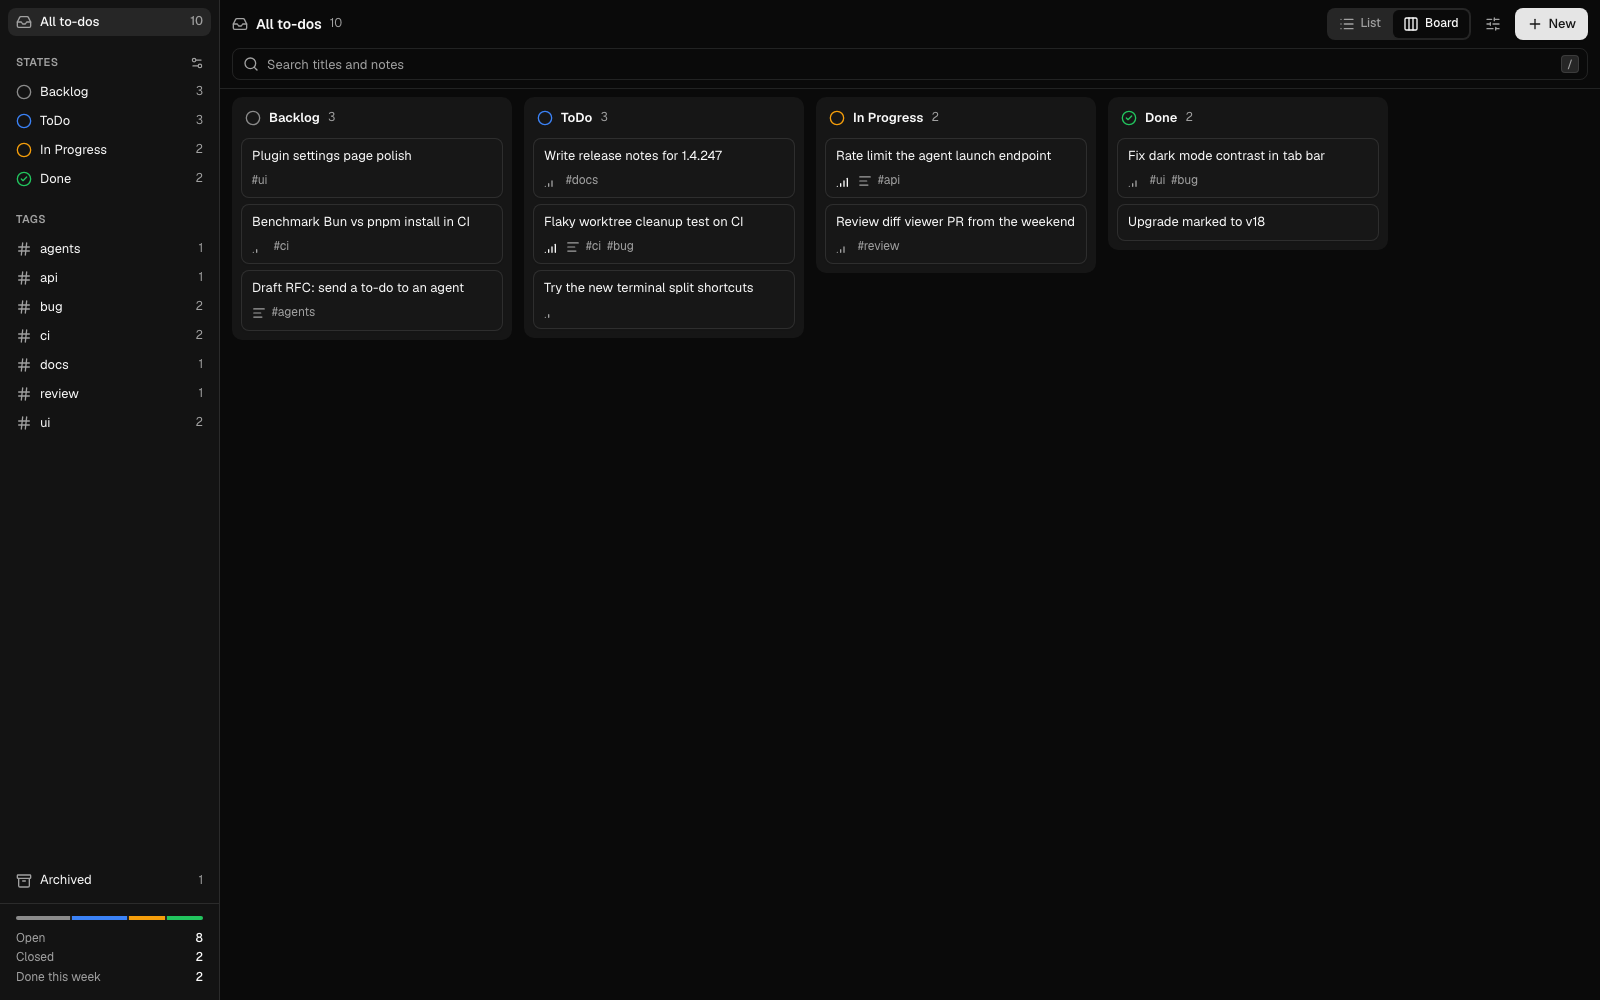
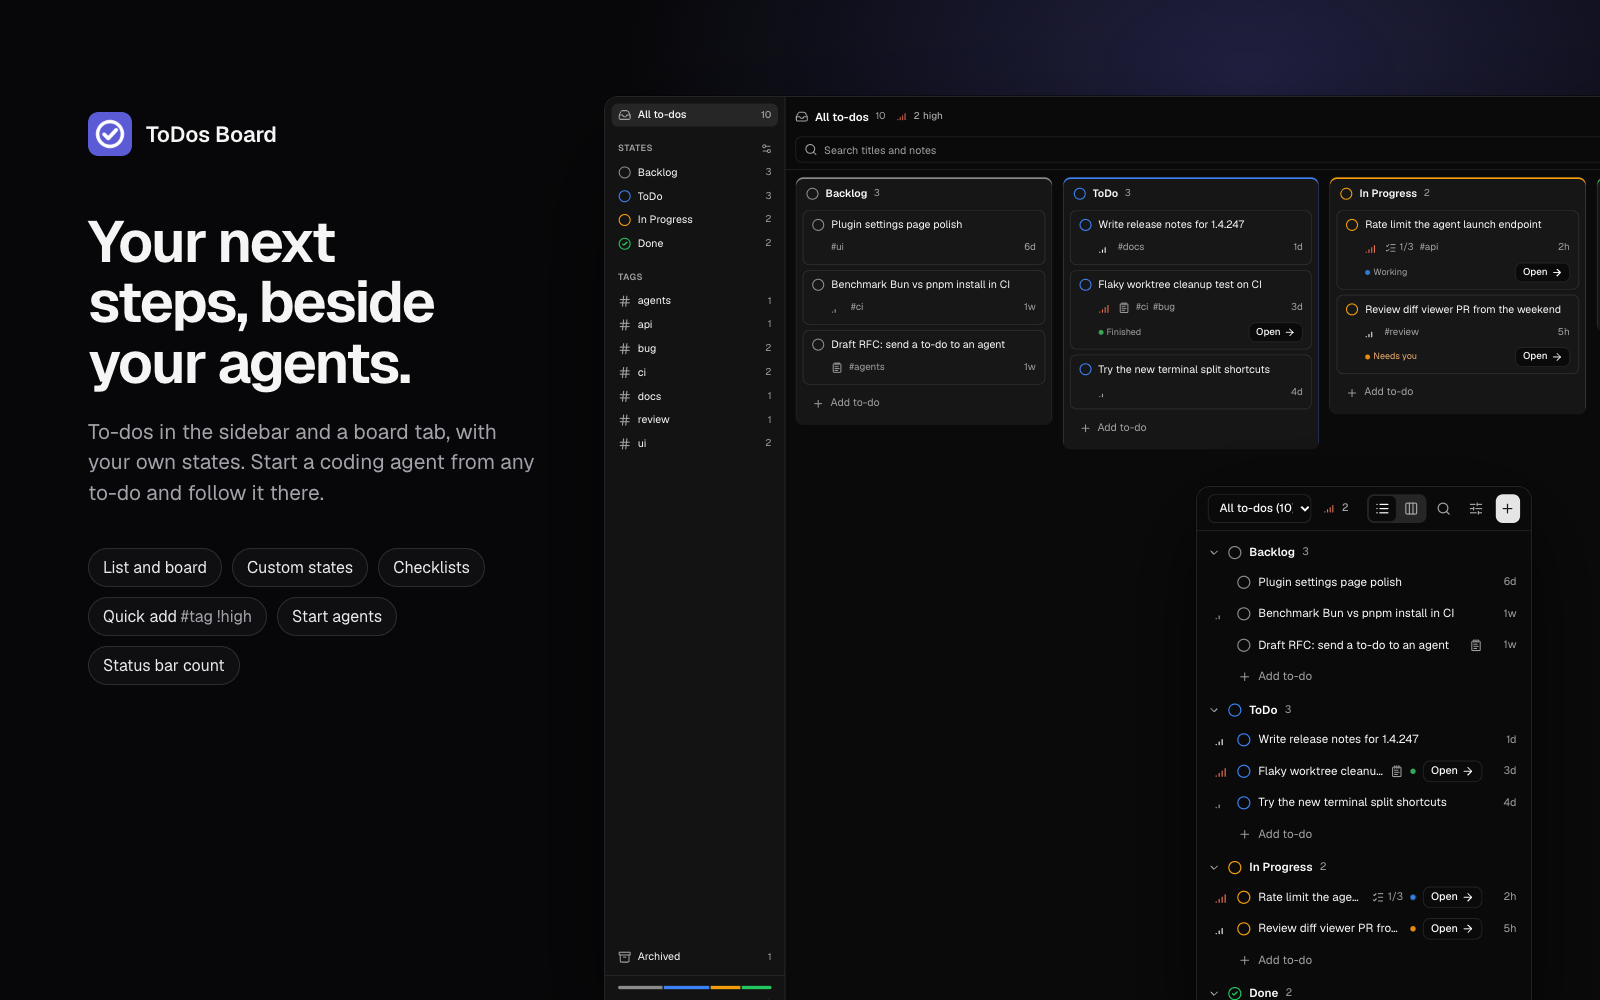
feat(catalog): cover with the name, the promise and the real board
The catalog cover was a plain board screenshot: no name, no line about
what the plugin does, next to peers whose covers say both. The new
cover puts "ToDos Board", the promise and the main features beside the
board tab and the sidebar panel, drawn from the current code with the
sample data.

`bun run cover` renders it in headless Chrome, without Orca, so the
cover can follow each UI change. It fails when the image passes the
catalog's 1024 KB limit.

diff --git a/scripts/cover/cover.html b/scripts/cover/cover.html
@@ -1,0 +1,151 @@
+<!doctype html>
+<html lang="en">
+  <head>
+    <meta charset="utf-8" />
+    <title>ToDos Board cover</title>
+    <!-- The catalog cover, 1600×1000. `bun run cover` serves this page next to a demo build of the
+         board (board.html, sample data) and captures it to images/cover.png. -->
+    <style>
+      @font-face {
+        font-family: 'Geist';
+        src: url('dist/Geist-Variable.woff2') format('woff2');
+        font-weight: 100 900;
+      }
+      :root {
+        --bg: oklch(0.13 0.005 280);
+        --fg: oklch(0.97 0 0);
+        --muted-fg: oklch(0.72 0.01 280);
+        --line: oklch(1 0 0 / 12%);
+        --brand: oklch(0.56 0.17 280);
+      }
+      * {
+        box-sizing: border-box;
+        margin: 0;
+      }
+      body {
+        width: 1600px;
+        height: 1000px;
+        overflow: hidden;
+        position: relative;
+        background:
+          radial-gradient(900px 600px at 78% 8%, color-mix(in oklab, var(--brand) 28%, transparent), transparent 70%),
+          var(--bg);
+        color: var(--fg);
+        font-family: 'Geist', system-ui, sans-serif;
+        -webkit-font-smoothing: antialiased;
+      }
+      .copy {
+        position: absolute;
+        left: 88px;
+        top: 112px;
+        width: 452px;
+      }
+      .brand {
+        display: flex;
+        align-items: center;
+        gap: 14px;
+        font-size: 22px;
+        font-weight: 600;
+        letter-spacing: -0.01em;
+      }
+      .brand img {
+        width: 44px;
+        height: 44px;
+        border-radius: 10px;
+      }
+      h1 {
+        margin-top: 56px;
+        font-size: 58px;
+        line-height: 1.04;
+        font-weight: 650;
+        letter-spacing: -0.035em;
+        text-wrap: balance;
+      }
+      .lede {
+        margin-top: 24px;
+        font-size: 21px;
+        line-height: 1.45;
+        color: var(--muted-fg);
+        text-wrap: pretty;
+      }
+      .features {
+        display: flex;
+        flex-wrap: wrap;
+        gap: 10px;
+        margin-top: 40px;
+        padding: 0;
+        list-style: none;
+      }
+      .features li {
+        padding: 8px 14px;
+        border: 1px solid var(--line);
+        border-radius: 999px;
+        font-size: 16px;
+        color: color-mix(in oklab, var(--fg) 88%, var(--muted-fg));
+        background: oklch(1 0 0 / 3%);
+      }
+      .features code {
+        font-family: inherit;
+        color: var(--muted-fg);
+      }
+      /* The real app: the board tab bleeding off the right and bottom edges, and the sidebar panel
+         over its empty lower corner. Each frame draws at a larger size and is scaled down, so the
+         board fits all four columns. */
+      .window {
+        position: absolute;
+        border: 1px solid var(--line);
+        border-radius: 14px;
+        overflow: hidden;
+        background: var(--bg);
+        box-shadow:
+          0 0 0 1px oklch(0 0 0 / 40%),
+          0 40px 120px -20px oklch(0 0 0 / 70%);
+      }
+      .window iframe {
+        width: calc(100% / var(--scale));
+        height: calc(100% / var(--scale));
+        border: 0;
+        display: block;
+        transform: scale(var(--scale));
+        transform-origin: 0 0;
+      }
+      .window--board {
+        --scale: 0.82;
+        left: 604px;
+        top: 96px;
+        width: 1260px;
+        height: 960px;
+      }
+      .window--panel {
+        --scale: 0.9;
+        left: 1196px;
+        top: 486px;
+        width: 336px;
+        height: 560px;
+        box-shadow:
+          0 0 0 1px oklch(0 0 0 / 50%),
+          0 30px 90px -10px oklch(0 0 0 / 85%);
+      }
+    </style>
+  </head>
+  <body>
+    <div class="copy">
+      <div class="brand"><img src="images/icon.png" alt="" />ToDos Board</div>
+      <h1>Your next steps, beside your agents.</h1>
+      <p class="lede">
+        To-dos in the sidebar and a board tab, with your own states. Start a coding agent from any to-do and follow it
+        there.
+      </p>
+      <ul class="features">
+        <li>List and board</li>
+        <li>Custom states</li>
+        <li>Checklists</li>
+        <li>Quick add <code>#tag !high</code></li>
+        <li>Start agents</li>
+        <li>Status bar count</li>
+      </ul>
+    </div>
+    <div class="window window--board"><iframe src="board.html" title="The ToDos board tab"></iframe></div>
+    <div class="window window--panel"><iframe src="panel.html" title="The ToDos sidebar panel"></iframe></div>
+  </body>
+</html>

diff --git a/scripts/cover/run.ts b/scripts/cover/run.ts
@@ -1,0 +1,68 @@
+// `bun run cover`: renders the catalog cover (images/cover.png, 1600×1000) from cover.html, with
+// the real board built from the current source and the screenshot sample data. It runs in a
+// headless Chrome with no Orca involved, so the cover can follow every UI change.
+//
+// Needs Chrome or Chromium: the app at its usual macOS path, Playwright's headless shell, or a
+// binary named by CHROME_PATH.
+
+import { $ } from 'bun'
+import { cp, mkdir, mkdtemp, rm, stat } from 'node:fs/promises'
+import { homedir, tmpdir } from 'node:os'
+import { join, resolve } from 'node:path'
+
+const ROOT = resolve(import.meta.dir, '../..')
+const OUT = join(ROOT, 'images/cover.png')
+const SIZE = { width: 1600, height: 1000 }
+/** The catalog refuses a larger cover. */
+const MAX_BYTES = 1024 * 1024
+
+async function findChrome(): Promise<string> {
+  if (process.env.CHROME_PATH) return process.env.CHROME_PATH
+  const app = '/Applications/Google Chrome.app/Contents/MacOS/Google Chrome'
+  if (await Bun.file(app).exists()) return app
+  const shells =
+    await $`ls -d ${homedir()}/Library/Caches/ms-playwright/chromium_headless_shell-*/*/chrome-headless-shell`
+      .nothrow()
+      .quiet()
+      .text()
+  const shell = shells.trim().split('\n').filter(Boolean).pop()
+  if (shell) return shell
+  throw new Error('No Chrome found. Install Google Chrome or set CHROME_PATH.')
+}
+
+const dir = await mkdtemp(join(tmpdir(), 'todos-cover-'))
+const server = Bun.serve({
+  port: 0,
+  async fetch(req) {
+    const file = Bun.file(join(dir, new URL(req.url).pathname))
+    return (await file.exists()) ? new Response(file) : new Response('Not found', { status: 404 })
+  }
+})
+try {
+  const build = await Bun.build({
+    entrypoints: [join(ROOT, 'scripts/shots/demo-main.tsx')],
+    outdir: join(dir, 'dist'),
+    naming: 'app.[ext]',
+    target: 'browser',
+    format: 'esm',
+    minify: true,
+    define: { DEMO_SEED_ID: JSON.stringify(crypto.randomUUID()) }
+  })
+  if (!build.success) throw new AggregateError(build.logs, 'The demo build failed')
+  await mkdir(join(dir, 'images'))
+  await cp(join(ROOT, 'src/fonts/Geist-Variable.woff2'), join(dir, 'dist/Geist-Variable.woff2'))
+  await cp(join(ROOT, 'images/icon.png'), join(dir, 'images/icon.png'))
+  await cp(join(ROOT, 'board.html'), join(dir, 'board.html'))
+  await cp(join(ROOT, 'panel.html'), join(dir, 'panel.html'))
+  await cp(join(import.meta.dir, 'cover.html'), join(dir, 'cover.html'))
+
+  const chrome = await findChrome()
+  // Dark, as Orca's default theme. A fresh profile, so the sample data is written again.
+  await $`${chrome} --headless --user-data-dir=${join(dir, 'profile')} --hide-scrollbars --force-device-scale-factor=1 --window-size=${SIZE.width},${SIZE.height} --virtual-time-budget=4000 --blink-settings=preferredColorScheme=0 --screenshot=${OUT} http://localhost:${server.port}/cover.html`.quiet()
+  const { size } = await stat(OUT)
+  if (size > MAX_BYTES) throw new Error(`The cover is ${Math.round(size / 1024)} KB; the catalog allows 1024 KB.`)
+  process.stdout.write(`Wrote ${OUT} (${Math.round(size / 1024)} KB)\n`)
+} finally {
+  server.stop()
+  await rm(dir, { recursive: true, force: true })
+}

diff --git a/README.md b/README.md
@@ -217,6 +217,7 @@ lefthook install
 | `bun run format:check`     | Check the format, but do not change files                                                 |
 | `bun run pack`             | Build and write an installable copy to `release/`                                         |
 | `bun run shots`            | Take screenshots in Orca, in light and dark mode                                          |
+| `bun run cover`            | Draw the catalog cover, `images/cover.png`, in headless Chrome                            |
 
 GitHub Actions (`.github/workflows/ci.yml`) runs the type check, ESLint, the Prettier check, the tests, a secret scan, and a check that `dist/` matches the source. It runs on each push to `main` and on each pull request.
 
@@ -229,6 +230,8 @@ Before each push, `lefthook` runs a secret scan (gitleaks), the tests, ESLint, a
 The script does not use your to-dos. It loads a demo copy of the plugin (`local.todos-demo`) with sample data, and removes the copy when it is done. It approves the demo copy for you. The copy asks for the same access as the plugin.
 
 You need the Orca desktop app 1.4.247 or later, open on this machine. Orca must be hidden while the shots run. If the terminal cannot hide Orca, the script waits up to two minutes for you to hide it (Cmd+H).
+
+`bun run cover` draws the catalog cover, `images/cover.png`: the name, a line about the plugin, and the board and panel with sample data. It builds the board from the current code and renders `scripts/cover/cover.html` in headless Chrome, so Orca is not needed. It needs Google Chrome, Playwright's Chromium, or a browser named by `CHROME_PATH`.
 
 ### Why `dist/` is in the repository
 

diff --git a/AGENTS.md b/AGENTS.md
@@ -32,6 +32,7 @@ src/log.ts        logger; src/errors.ts typed errors
 src/styles.css    global tokens and resets only
 tests/            setup.ts, factories/, fixtures/, unit/, integration/
 scripts/shots/    `bun run shots`: Orca screenshots of a demo copy with sample data
+scripts/cover/    `bun run cover`: the catalog cover (images/cover.png) from cover.html, headless Chrome
 dist/             committed build output that Orca loads (app.js, app.css, worker.js)
 ```
 
